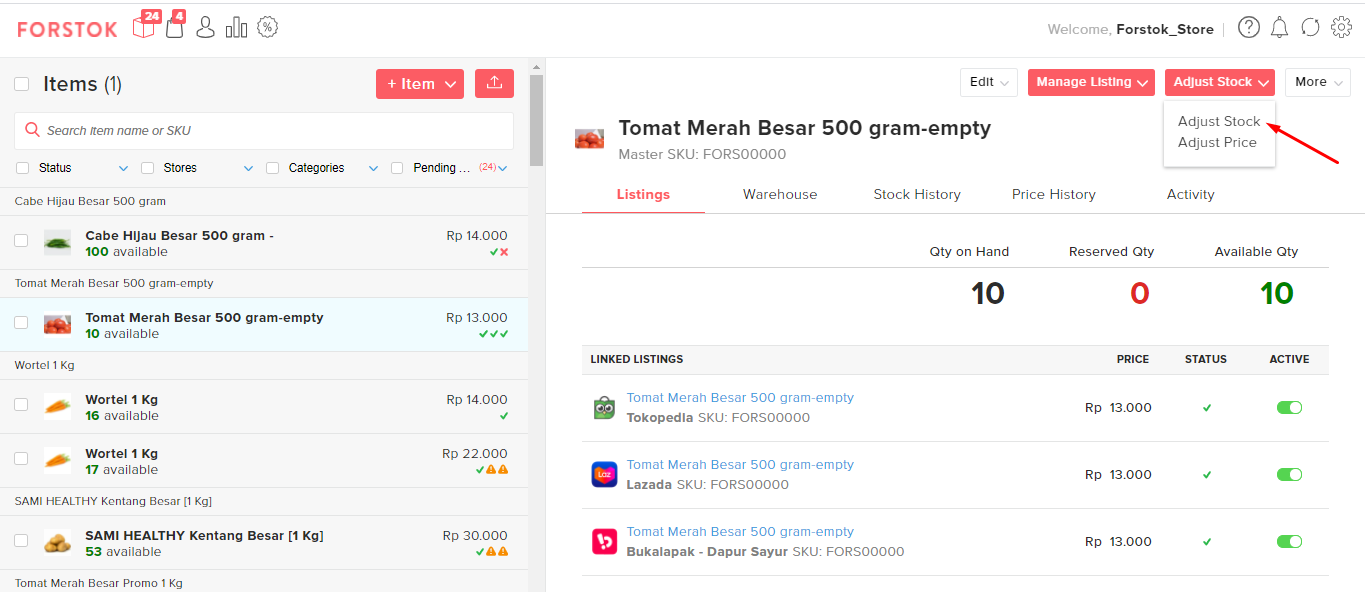
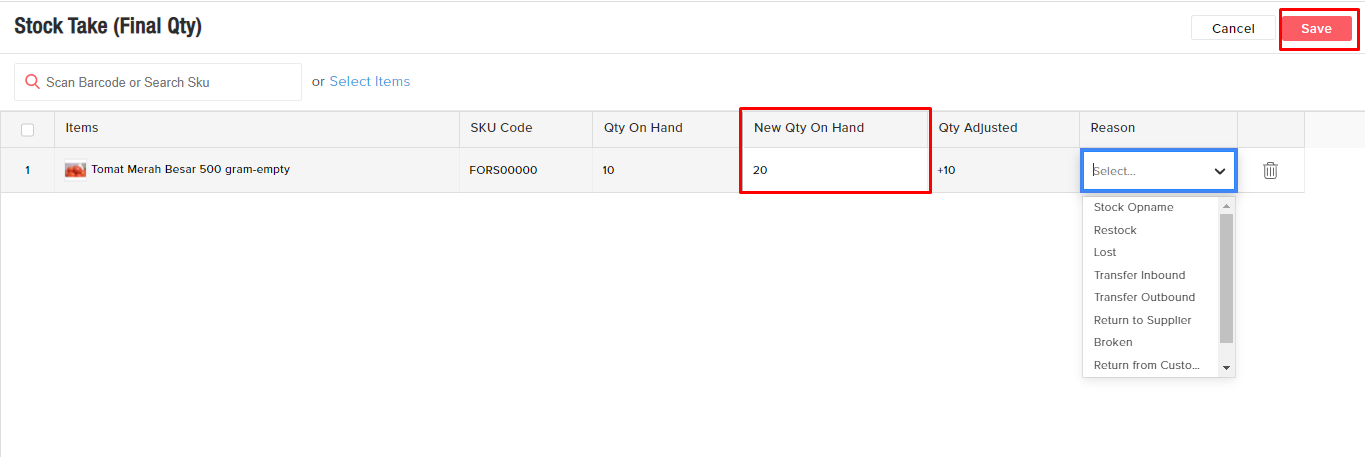
GitBook: [master] one page and 7 assets modified

diff --git a/knowledge-base/inventory/upload-stock-adustment-barcode-or-selected-items.md b/knowledge-base/inventory/upload-stock-adustment-barcode-or-selected-items.md
@@ -1,14 +1,39 @@
 # Upload Stock Adjustment \(interface\)
 
-Pada Menu Item Forstok pilih +Item lalu pilih Create stock adjustment 
+Untuk Adjust Stock ada 2 cara bisa dengan scan barcode atau selected item, berikut detailnya : 
 
-![](../../.gitbook/assets/image%20%28334%29.png)
+**Adjust Stock**
 
-1. Pilih Type adjustment untuk menginputkan Qty 
-2. Pilih warehouse jika mau update di warehouse selain di primary warehouse atau gudang utama 
-3. Tuliskan nomor reference 
+1. Pilih sku yang akan di update stock. Pilih Adjust Stock
 
-![](../../.gitbook/assets/image%20%28333%29.png)
+![](../../.gitbook/assets/image%20%28345%29.png)
+
+2. Adjustment untuk update stock ada 3 type:
+
+* Final Qty : Ideal for Stock Opname 
+* Adjust Qty \(+\) : Ideal for Stock Inbound
+* Adjust Qty \(-\) : Ideal for Stock Outbound
+* Warehouse : pilih gudang yang akan di update \(ini biasanya untuk multi warehouse. Jika hanya 1 gudang hanya Primary Warehouse\)
+* Date : Tanggal update stock
+* Reference \# : Nomor referensi. Boleh kosong atau di input
+
+![](../../.gitbook/assets/image%20%28344%29.png)
+
+3. Input qty yang akan di update pada kolom New Qty on Hand. untuk reason boleh di pilih atau tidak. Lalu save
+
+![](../../.gitbook/assets/image%20%28339%29.png)
+
+* Jika ingin menambahkan sku lain untuk update stock. Pilih Select items
+
+![](../../.gitbook/assets/image%20%28342%29.png)
+
+* Cari sku atau centang sku yang di update stock, lalu klik Add to List
+
+![](../../.gitbook/assets/image%20%28341%29.png)
+
+4. Untuk melihat berhasil terupdate bisa lihat dari Stock History
+
+![](../../.gitbook/assets/image%20%28343%29.png)
 
 4. Klik submit.
 
